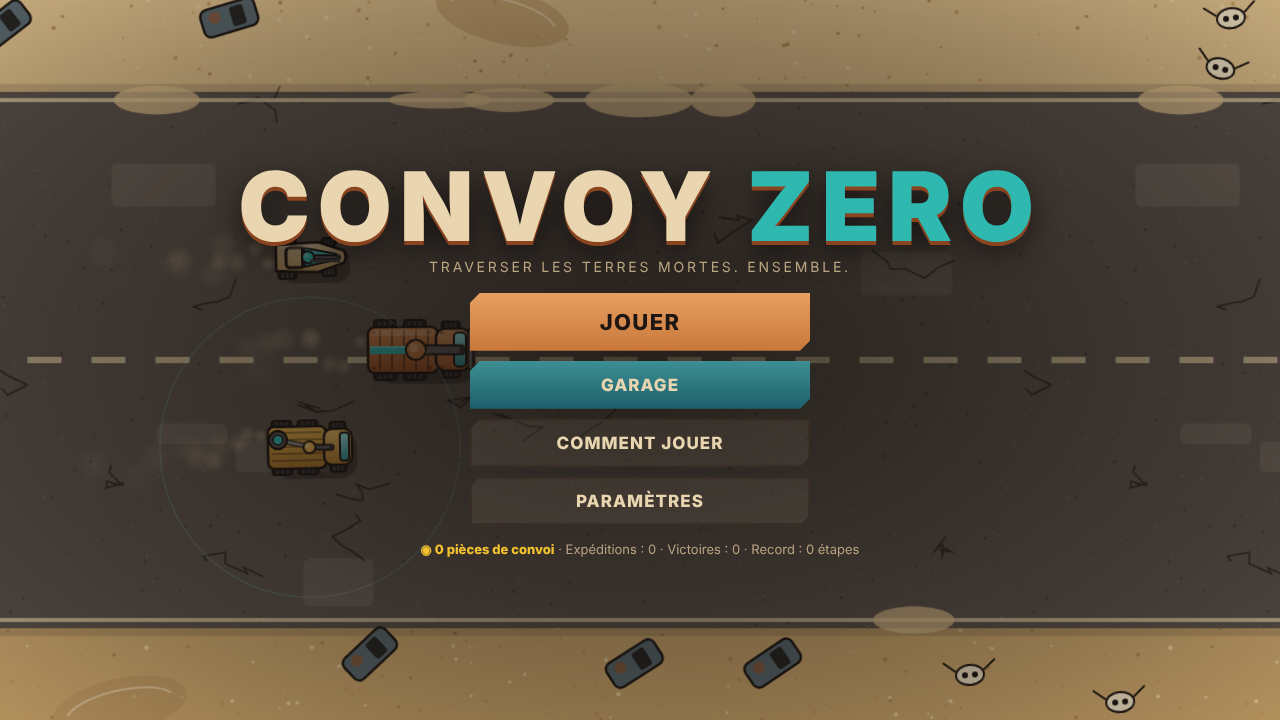
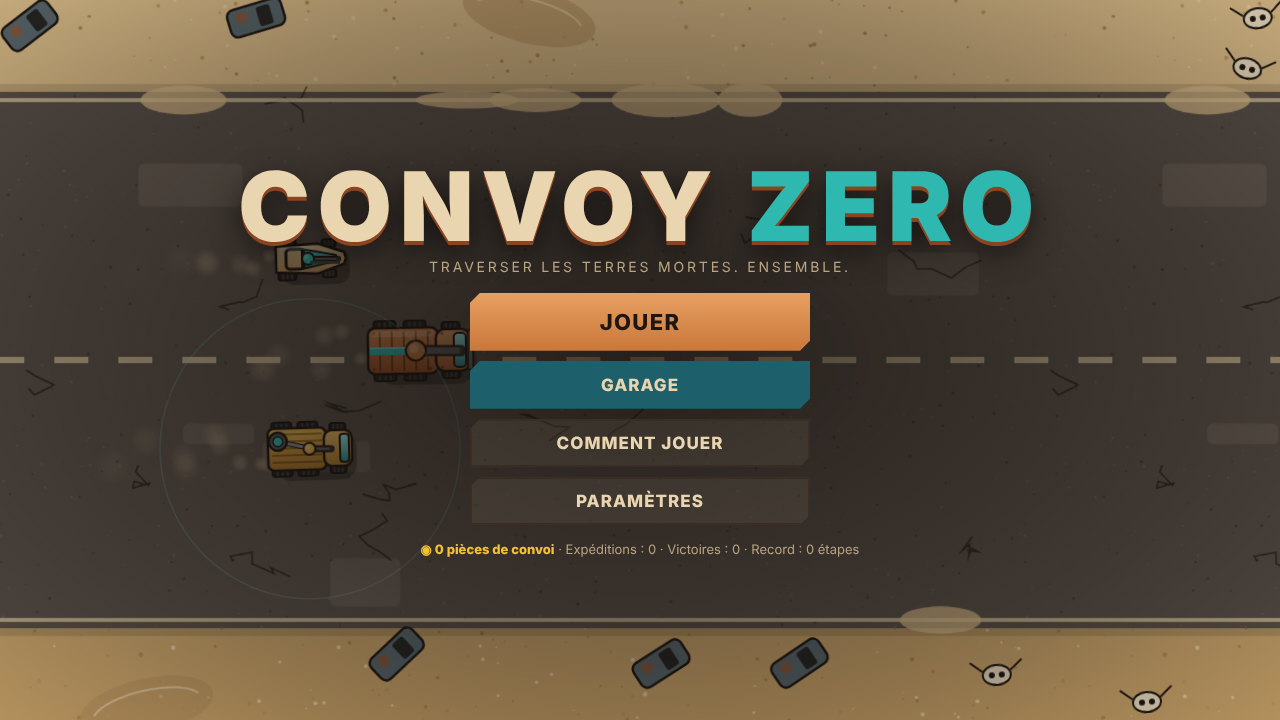
Vérification indépendante (agent H7, Haiku) : build, 196 unitaires, 16 e2e verts ; captures régénérées
Claude-Session: https://claude.ai/code/session_01W7o7YxbvWdf4xfhXUt5y87

diff --git a/docs/audits/verification.md b/docs/audits/verification.md
@@ -1,0 +1,103 @@
+# Vérification indépendante H7 — CONVOY ZERO
+
+Dépôt : /home/user/Convoy-Zero · HEAD `e6326f7` · Testeur : cz-tester (Haiku)
+Aucun fichier de src/ ni de tests/ modifié. Aucun commit, aucun push.
+
+## Verdict synthétique
+
+| # | Point | Verdict |
+|---|-------|---------|
+| 1 | `npm run build` | OK |
+| 2 | `npx vitest run` | OK (196/196) |
+| 3 | `npx playwright test --trace off` | OK (16 passés, 0 échec, 2 ignorés attendus) |
+| 4a | desktop/07-nuit.png | OK |
+| 4b | desktop/08-boss.png | OK partiel : Béhémoth et halo visibles ; lignes de visée rouges NON VÉRIFIÉES sur cette image |
+| 4c | mobile/04-desert.png | OK |
+| 4d | mobile/03-carte.png | OK avec réserve cosmétique (bulle de message sur un nœud) |
+| 4e | mobile/01-menu.png | OK (bouton « Reprendre » absent, cohérent : profil vierge) |
+| 5 | Reprise d'expédition (script) | OK |
+
+## 1. Build
+
+Commande : `npm run build` (tsc --noEmit && vite build). Sortie : exit 0.
+```
+✓ 23 modules transformed.
+dist/index.html 0.90 kB
+dist/assets/index-My3SO21M.css 14.00 kB
+dist/assets/index--fj93wTh.js 1,605.64 kB (gzip 381.17 kB)
+✓ built in 5.43s
+```
+Verdict : OK. Note : le bundle JS dépasse 500 kB (avertissement de taille, pas une erreur).
+
+## 2. Vitest (unitaires)
+
+Commande : `npx vitest run`. Journal : /tmp/claude-0/h7/vitest.log. Exit 0.
+```
+Test Files  7 passed (7)
+Tests       196 passed (196)
+```
+Fichiers : run.test.ts (29), edge.test.ts (47), simfix.test.ts (10), core.test.ts (76), runSave.test.ts (9), save.test.ts (6), sim.test.ts (19).
+Verdict : OK. Aucun échec.
+
+## 3. Playwright (desktop + mobile)
+
+Commande : `npx playwright test --trace off`, serveur `npm run preview` (port 4173). Journal : /tmp/claude-0/h7/e2e.log.
+```
+16 passed (3.4m)
+2 skipped
+0 failed
+```
+Détail :
+- desktop : parcours complet OK, défaite OK, pilotage auto/manuel OK, pause OK, paramètres audio OK, cibles tactiles OK, sauvegarde corrompue OK, captures d'écran OK ; « pilotage tactile » SKIP (game.spec.ts:72, `test.skip(project !== 'mobile')`, voulu).
+- mobile : parcours complet OK, défaite OK, joystick/tactile OK, pause OK, paramètres OK, cibles tactiles OK, sauvegarde corrompue OK, captures d'écran OK ; « pilotage clavier » SKIP (game.spec.ts:55, `test.skip(project === 'mobile')`, voulu).
+
+Aucun échec, donc pas d'erreur à analyser. Les deux SKIP sont conditionnés par le projet dans le code, pas par un test désactivé.
+
+## 4. Captures régénérées (docs/screenshots/)
+
+Les captures ont été régénérées par screens.spec.ts pendant le run (desktop 17:19, mobile ~17:20–17:21).
+
+**desktop/07-nuit.png : OK.** Scène nocturne sombre. Les phares des véhicules (Mastodonte, Lame, Glaneur) sont visibles sous forme de cônes de lumière. HUD lisible (carburant 22, ferraille 20, vivres 4 ; barre de route 11 % ; état des véhicules à droite), sans chevauchement. Bouton AUTO visible en bas à droite.
+
+**desktop/08-boss.png : OK partiel.** Barre de vie « BÉHÉMOTH » en haut, centrée, lisible. Le Béhémoth est visible à droite (carrosserie rouge, crâne, deux canons), avec un halo sombre autour (diffus, peu contrasté). Des points lumineux rouges/orangés (projectiles ou tirs) sont visibles près du convoi. **Les lignes de visée rouges du Béhémoth ne sont pas identifiables sur cette image** (recadrage vérifié) : NON VÉRIFIÉ pour ce point précis. HUD sans chevauchement.
+
+**mobile/04-desert.png : OK.** Une ligne de visée rouge pointillée part d'un ennemi à droite vers le convoi. HUD (carburant 41, ferraille 20, vivres 8), jauges des véhicules, joystick à gauche, bouton AUTO à droite, bannière d'aide en bas : lisibles, sans chevauchement notable.
+
+**mobile/03-carte.png : OK avec réserve cosmétique.** Carte en trois biomes lisible, nœud accessible mis en évidence, panneau latéral (convoi, PV, améliorations) lisible. Réserve : la bulle « Expédition DUNE-42 : bonne route. » recouvre partiellement un nœud du biome central en haut. Cosmétique, pas bloquant.
+
+**mobile/01-menu.png : OK.** Titre, boutons JOUER / GARAGE / COMMENT JOUER / PARAMÈTRES, pied de page de stats : cohérents, pas de débordement. Le bouton « Reprendre l'expédition » est absent, ce qui est cohérent avec un profil vierge (aucune sauvegarde). Sa présence réelle est vérifiée par le point 5, pas par la capture.
+
+**desktop/01-menu.png** : même constat que mobile, OK.
+
+## 5. Reprise d'expédition (script scripté)
+
+Script : /tmp/claude-0/h7/resume.cjs (Playwright chromium, `?test`, contexte neuf). Journal de sortie brut :
+```
+screen_after_play "map"
+chosen_node "n0_0"
+before_reload {"screen":"drive","currentId":"n0_0","fuel":40,"food":8,"scrap":20,"outcome":null}
+menu_resume_button_count 1
+after_resume {"screen":"drive","currentId":"n0_0","fuel":40,"food":8,"scrap":20,"outcome":null}
+same_node true
+fuel_not_repaid true
+fuel_equal true
+console_errors []
+```
+Ce qui est vérifié :
+- Jouer → nœud accessible `n0_0` → Partir → 1 s de conduite → rechargement : OK.
+- Le menu affiche `[data-act=resume-run]` (1 occurrence) : OK.
+- Clic sur Reprendre : screen = `drive`, currentId = `n0_0` (identique au nœud choisi) : OK.
+- Carburant identique avant et après reprise (40 = 40) : pas de repaiement. OK. Note : le carburant est débité au départ (travelTo) avant la sauvegarde, donc la comparaison porte bien sur la valeur sauvegardée.
+- Aucune erreur console ni exception de page.
+
+Verdict : OK.
+
+Limite : le script ne couvre que la reprise en phase de conduite (saveRun('drive')), pas les reprises en phase post-segment (événement, récompense, atelier, camp).
+
+## Anomalies relevées (aucune corrigée)
+
+1. Béhémoth (desktop/08-boss.png) : lignes de visée rouges non identifiables sur la capture ; à confirmer en visuel dédié si c'est un point d'acceptation.
+2. Carte mobile : bulle de message qui recouvre un nœud (cosmétique).
+3. Bundle JS de 1,6 MB (avertissement vite, pas bloquant).
+
+Aucune erreur fonctionnelle détectée.

diff --git a/docs/AGENT_METRICS.md b/docs/AGENT_METRICS.md
@@ -21,4 +21,4 @@ Phase 1 (V1, avant correction) : 0 sous-agent, tout par l'orchestrateur (Opus).
 | H5 | haiku | cz-dev (micro) | correctifs a11y hors app.ts | styles.css, index.html, icons.ts | ✅ accepté (capture mobile revérifiée par l'orchestrateur) · 93 k tokens · 19 outils · 94 s |
 | H6 | haiku | cz-dev (micro) | correctifs a11y app.ts | src/ui/app.ts | ✅ accepté (clavier, dialogue, focus vérifiés en navigateur par l'orchestrateur) · 118 k tokens · 12 outils · 89 s |
 | S4 | sonnet | cz-dev | correctifs simulation (audit H4) | src/game/sim/sim.ts, tests/unit/simfix.test.ts | ✅ accepté : 196 tests + scripts de preuve de H4 relancés par l'orchestrateur, bugs disparus ; équilibrage inchangé (42,5 %) · 93 k tokens · 8 outils · 105 s |
-| H7 | haiku | cz-tester | vérification indépendante finale (build, unitaires, e2e, captures) | aucun fichier source | en cours |
+| H7 | haiku | cz-tester | vérification indépendante (build, unitaires, e2e, captures, reprise) | docs/audits/verification.md | ✅ build OK · 196/196 unitaires · 16 e2e passés, 0 échec · reprise OK ; point boss complété par l'orchestrateur · 112 k tokens · 48 outils · 343 s |
